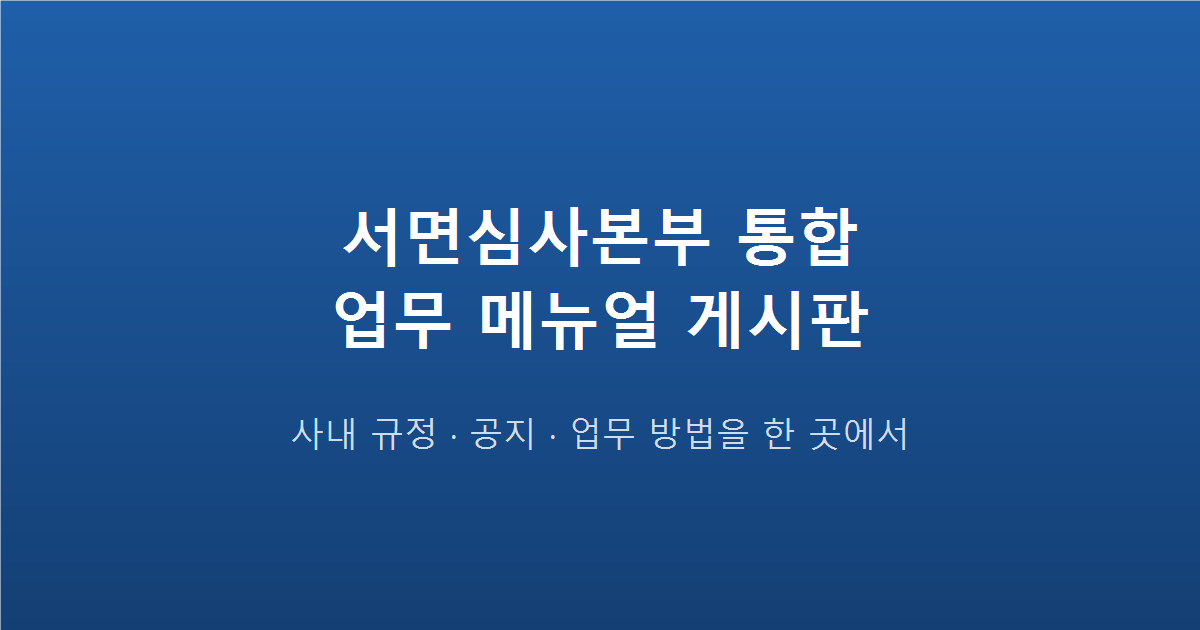
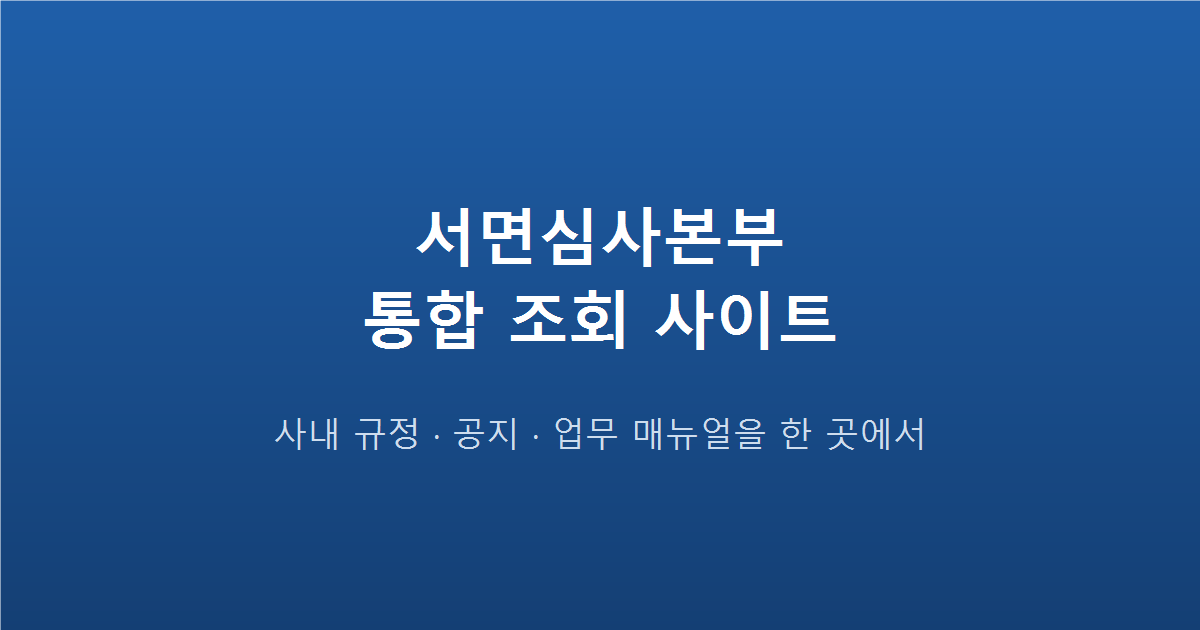
사이트명·메뉴명 변경 및 상단 메뉴바 제거
- 사이트명: 서면심사본부 통합 조회 사이트 (OG 이미지도 재생성)
- 메뉴명: 이용 방법 -> 업무 매뉴얼
- 상단 메뉴바 삭제, 홈 검색창 아래에 카테고리 설명이 함께 보이는 메뉴 목록 배치
- 메뉴바가 없어진 만큼 카테고리 페이지에 "← 홈" 링크 추가
- 자주 찾는 항목에서 메뉴와 중복되던 항목(복지·인사 전체, 전체 공지) 제거
- 팀별 잔여 회식비 조회 문서 추가

Changed region(s): [[0.2775, 0.4524, 0.74, 0.573], [0.2775, 0.3317, 0.7092, 0.4222], [0.2158, 0.6635, 0.7708, 0.7238]]

diff --git a/src/styles/global.css b/src/styles/global.css
@@ -160,55 +160,6 @@ input {
   text-decoration: none;
 }
 
-.site-nav {
-  border-bottom: 1px solid var(--border);
-  background: var(--surface);
-  overflow-x: auto;
-  scrollbar-width: none;
-}
-
-.site-nav::-webkit-scrollbar {
-  display: none;
-}
-
-.site-nav__list {
-  display: flex;
-  gap: 4px;
-  margin: 0;
-  padding: 8px var(--gutter);
-  list-style: none;
-  width: max-content;
-  min-width: 100%;
-}
-
-.site-nav__link {
-  display: inline-flex;
-  align-items: center;
-  gap: 6px;
-  padding: 8px 14px;
-  border-radius: 999px;
-  color: var(--text-muted);
-  font-size: 0.94rem;
-  font-weight: 500;
-  white-space: nowrap;
-}
-
-.site-nav__link:hover {
-  background: var(--surface-alt);
-  text-decoration: none;
-}
-
-.site-nav__link[aria-current='page'] {
-  background: var(--brand);
-  color: #fff;
-}
-
-@media (prefers-color-scheme: dark) {
-  .site-nav__link[aria-current='page'] {
-    color: #10161d;
-  }
-}
-
 main {
   padding: 28px 0 64px;
 }
@@ -356,6 +307,70 @@ main {
 .section__more {
   font-size: 0.85rem;
   font-weight: 500;
+}
+
+/* 홈 메뉴 — 상단 메뉴바 대신 홈에 배치한 카테고리 목록 */
+
+.menu-list {
+  display: grid;
+  gap: 8px;
+}
+
+.menu-item {
+  display: flex;
+  align-items: center;
+  gap: 14px;
+  min-height: 72px;
+  padding: 14px 18px;
+  background: var(--surface);
+  border: 1px solid var(--border);
+  border-radius: var(--radius);
+  color: var(--text);
+  box-shadow: var(--shadow);
+  transition: border-color 0.12s ease, box-shadow 0.12s ease;
+}
+
+.menu-item:hover {
+  border-color: var(--brand);
+  box-shadow: var(--shadow-lift);
+  text-decoration: none;
+}
+
+.menu-item__emoji {
+  flex: none;
+  font-size: 1.6rem;
+  line-height: 1;
+}
+
+.menu-item__body {
+  display: flex;
+  flex-direction: column;
+  gap: 3px;
+  min-width: 0;
+}
+
+.menu-item__label {
+  font-size: 1.02rem;
+  font-weight: 650;
+  letter-spacing: -0.01em;
+}
+
+.menu-item__desc {
+  color: var(--text-muted);
+  font-size: 0.85rem;
+  line-height: 1.5;
+}
+
+/* 오른쪽 꺾쇠 */
+.menu-item::after {
+  content: '';
+  flex: none;
+  width: 8px;
+  height: 8px;
+  margin-left: auto;
+  border-right: 2px solid var(--text-faint);
+  border-top: 2px solid var(--text-faint);
+  transform: rotate(45deg);
 }
 
 .shortcut-grid {

diff --git a/src/lib/categories.ts b/src/lib/categories.ts
@@ -24,7 +24,7 @@ export const CATEGORIES: Record<CategoryKey, CategoryInfo> = {
     sort: 'date',
   },
   guide: {
-    label: '이용 방법',
+    label: '업무 매뉴얼',
     emoji: '📘',
     description: '전산·시스템 사용법을 화면 캡처와 함께 단계별로 안내합니다.',
     sort: 'order',

diff --git a/CONTENT_GUIDE.md b/CONTENT_GUIDE.md
@@ -27,7 +27,7 @@
 | 메뉴 | 폴더 | 넣을 내용 |
 | --- | --- | --- |
 | 📢 공지사항 | `src/content/notice/` | 전 인원 공지 |
-| 📘 이용 방법 | `src/content/guide/` | 전산·시스템 사용법 (스크린샷 위주) |
+| 📘 업무 매뉴얼 | `src/content/guide/` | 전산·시스템 사용법 (스크린샷 위주) |
 | 🎁 복지·인사 | `src/content/welfare/` | 연차, 경조사, 교육비 등 규정 |
 | ❓ FAQ | `src/content/faq/` | 자주 묻는 질문 |
 | 📄 서식·양식 | `src/content/form/` | 다운로드용 서식 안내 |
@@ -64,7 +64,7 @@
 
 ### 화면에서 하는 일
 
-왼쪽에서 메뉴(공지사항/이용 방법/…)를 고르고 **새 글** 을 누르면 입력칸이 나옵니다.
+왼쪽에서 메뉴(공지사항/업무 매뉴얼/…)를 고르고 **새 글** 을 누르면 입력칸이 나옵니다.
 
 - **제목** — 팀원이 실제로 검색할 단어 그대로
 - **한 줄 요약** — 검색 결과와 카카오톡 미리보기에 그대로 표시됨

diff --git a/src/content/notice/사이트-오픈-안내.md b/src/content/notice/사이트-오픈-안내.md
@@ -1,6 +1,6 @@
 ---
 title: 안내 사이트를 열었습니다
-summary: 사무실 공용 PC 없이도 폰에서 사내 규정과 이용 방법을 바로 확인할 수 있습니다.
+summary: 사무실 공용 PC 없이도 폰에서 사내 규정과 업무 매뉴얼을 바로 확인할 수 있습니다.
 tags: [오픈, 사용법, 안내]
 updated: 2026-07-27
 pinned: true

diff --git a/src/content/guide/팀별-잔여-회식비-조회.md b/src/content/guide/팀별-잔여-회식비-조회.md
@@ -1,0 +1,13 @@
+---
+title: 팀별 잔여 회식비 조회
+summary: 본문 링크를 클릭하여 잔여 회식비 조회 사이트에 접속하세요
+tags:
+  - 회식비
+  - 조직관리비
+updated: 2026-07-27
+order: null
+---
+
+https://effortless-hotteok-2d3d11.netlify.app/?mode=user
+
+위 링크를 클릭하여 접속하세요.
